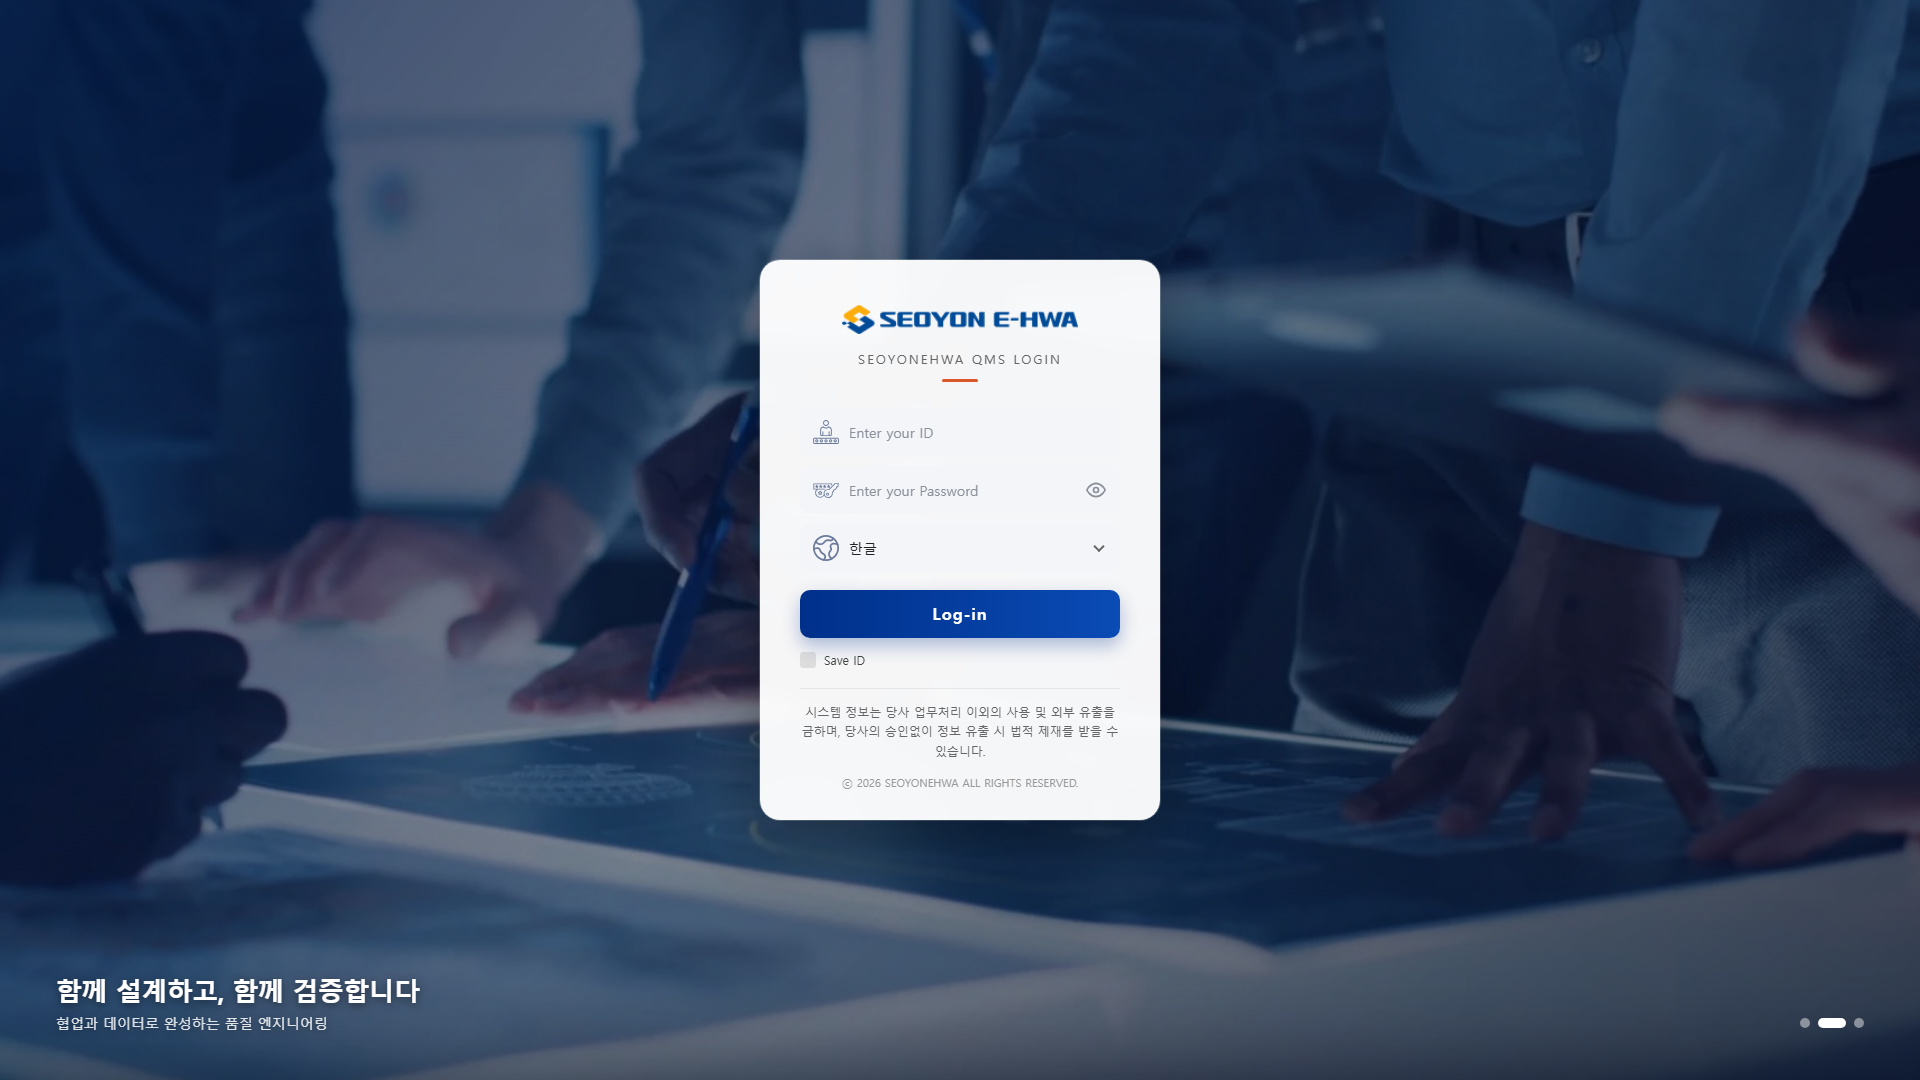
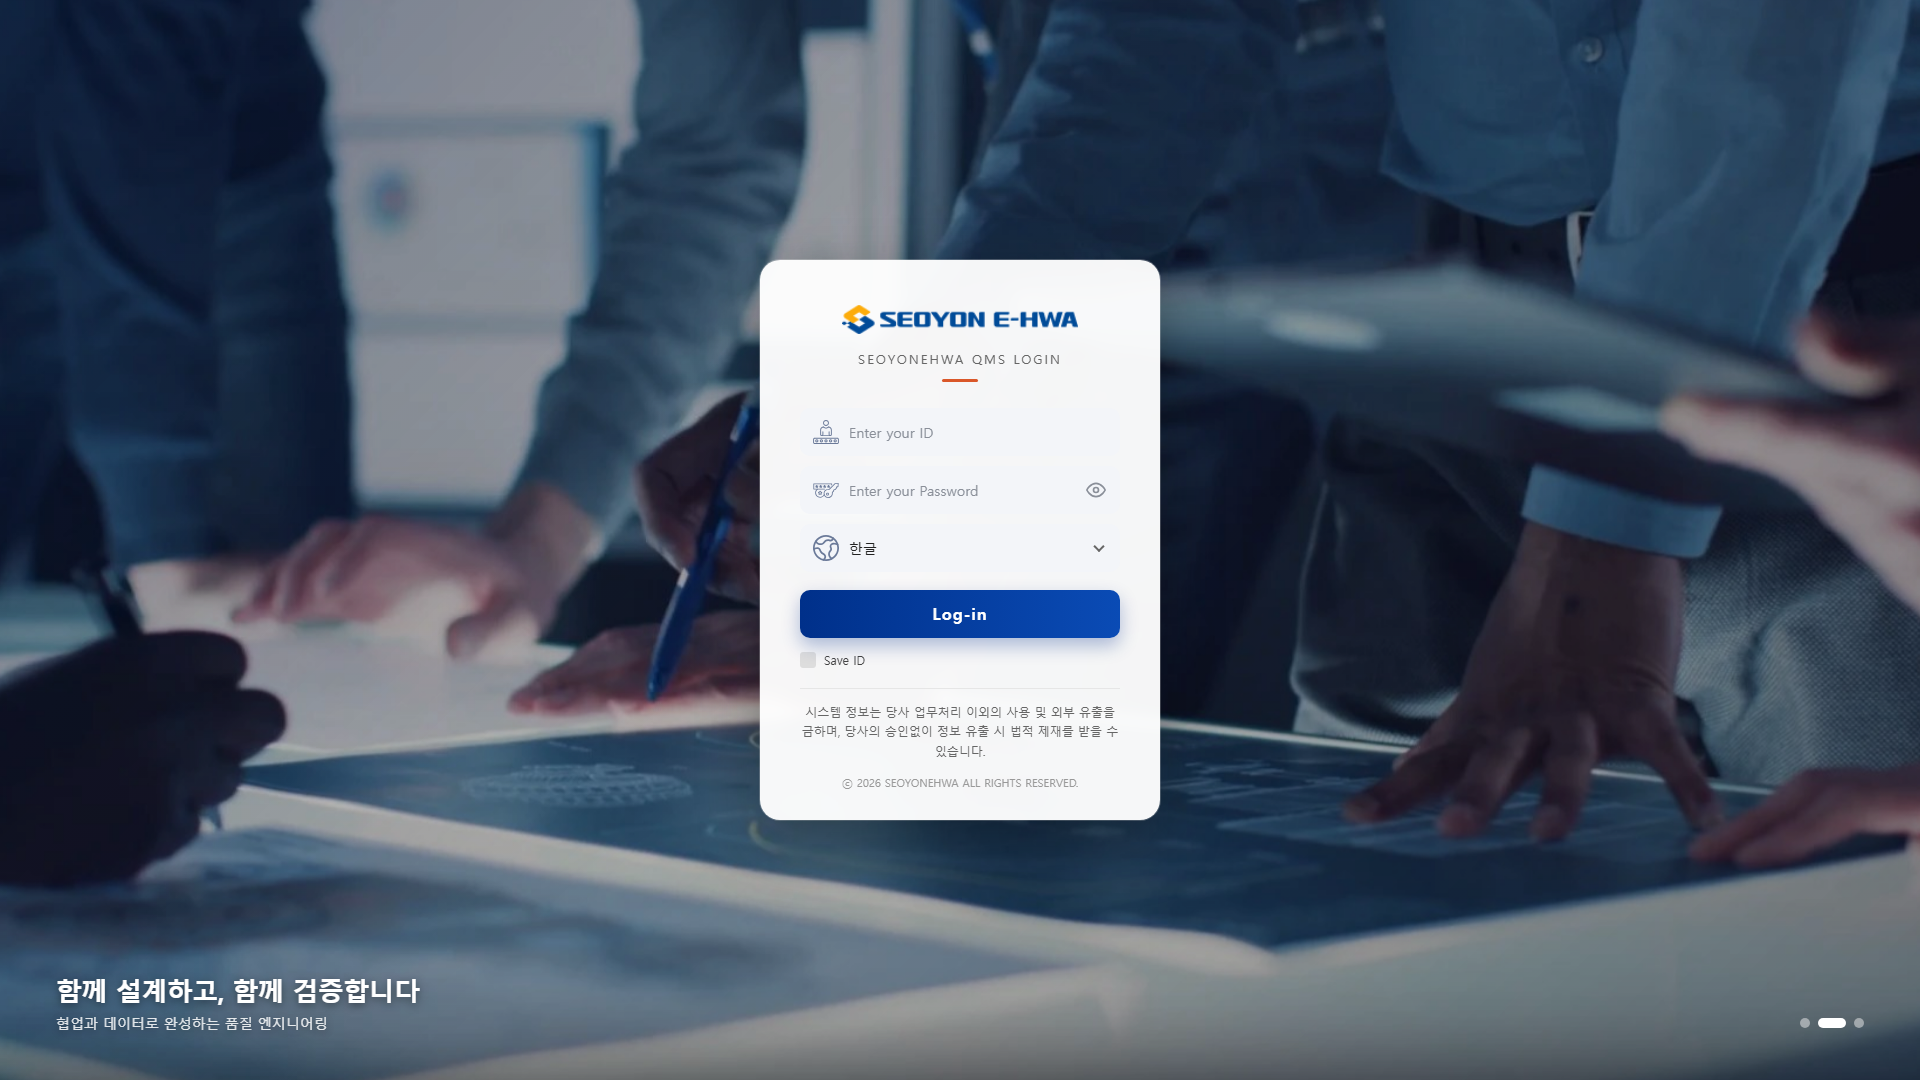
시안 2 남색 오버레이 약하게 조정

diff --git a/docs/login2.html b/docs/login2.html
@@ -5,7 +5,7 @@
     <title>SEOYONEHWA - 시안 2 중앙 카드형</title>
     <meta name="viewport" content="width=device-width, initial-scale=1.0">
     <!-- 정적 목업 : WebProjects/Login2.aspx 를 서버 없이 보기 위한 HTML 버전 (로그인 동작 없음) -->
-    <link type="text/css" rel="stylesheet" href="css/Login2.css?v=202610131120" />
+    <link type="text/css" rel="stylesheet" href="css/Login2.css?v=202610140949" />
     <script src="https://cdnjs.cloudflare.com/ajax/libs/jquery/3.7.1/jquery.min.js"></script>
     <script type="text/javascript">
         // 모바일 / PC 분기

diff --git a/WebProjects/CommonScripts/Css/Login2.css b/WebProjects/CommonScripts/Css/Login2.css
@@ -142,7 +142,7 @@ ul.login_bg {
             left: 0;
             right: 0;
             bottom: 0;
-            background: linear-gradient(135deg, rgba(0, 30, 80, .70) 0%, rgba(0, 30, 80, .45) 50%, rgba(0, 10, 40, .70) 100%);
+            background: linear-gradient(135deg, rgba(0, 30, 80, .40) 0%, rgba(0, 30, 80, .20) 50%, rgba(0, 10, 40, .40) 100%);
             pointer-events: none;
         }
 

diff --git a/docs/css/Login2.css b/docs/css/Login2.css
@@ -142,7 +142,7 @@ ul.login_bg {
             left: 0;
             right: 0;
             bottom: 0;
-            background: linear-gradient(135deg, rgba(0, 30, 80, .70) 0%, rgba(0, 30, 80, .45) 50%, rgba(0, 10, 40, .70) 100%);
+            background: linear-gradient(135deg, rgba(0, 30, 80, .40) 0%, rgba(0, 30, 80, .20) 50%, rgba(0, 10, 40, .40) 100%);
             pointer-events: none;
         }
 
